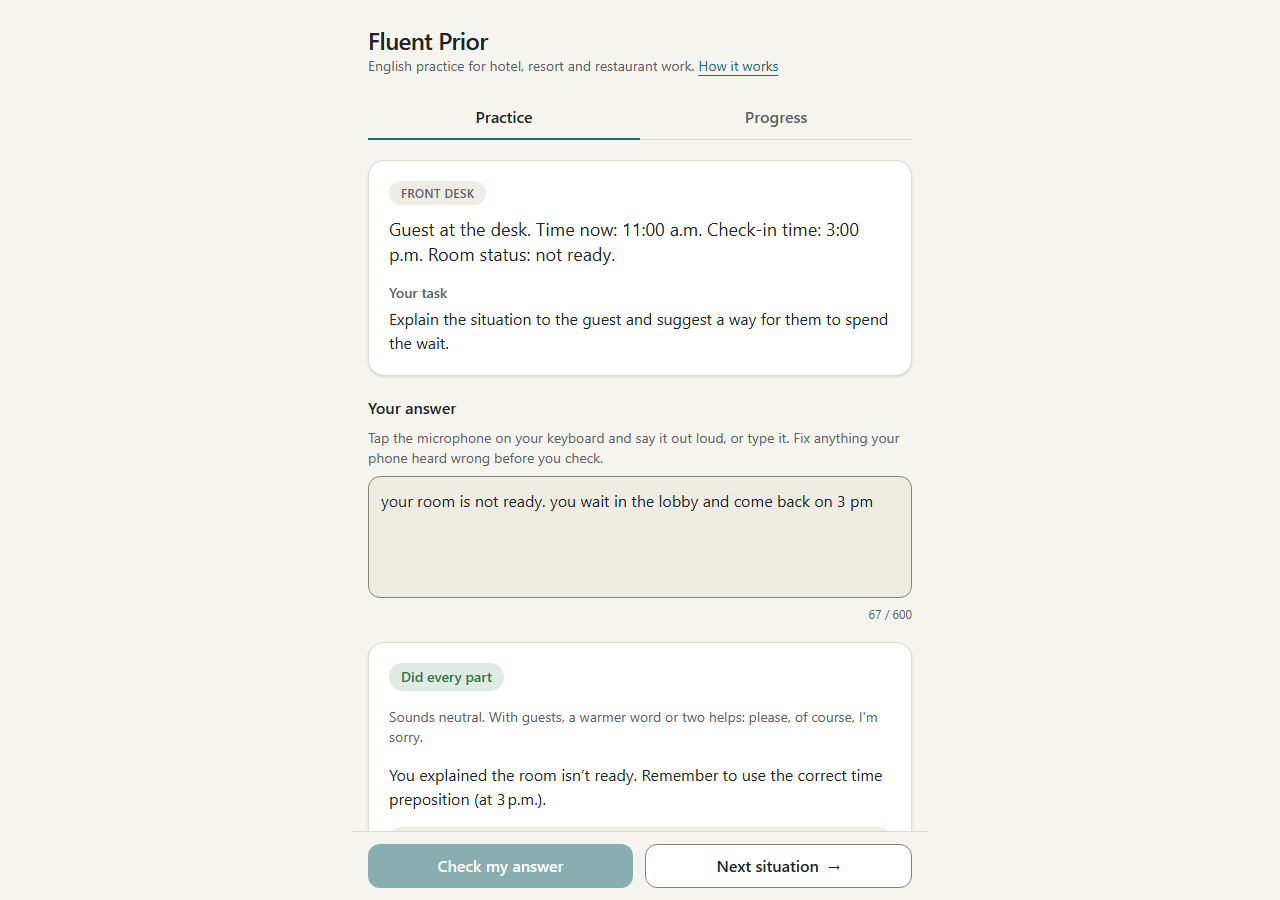
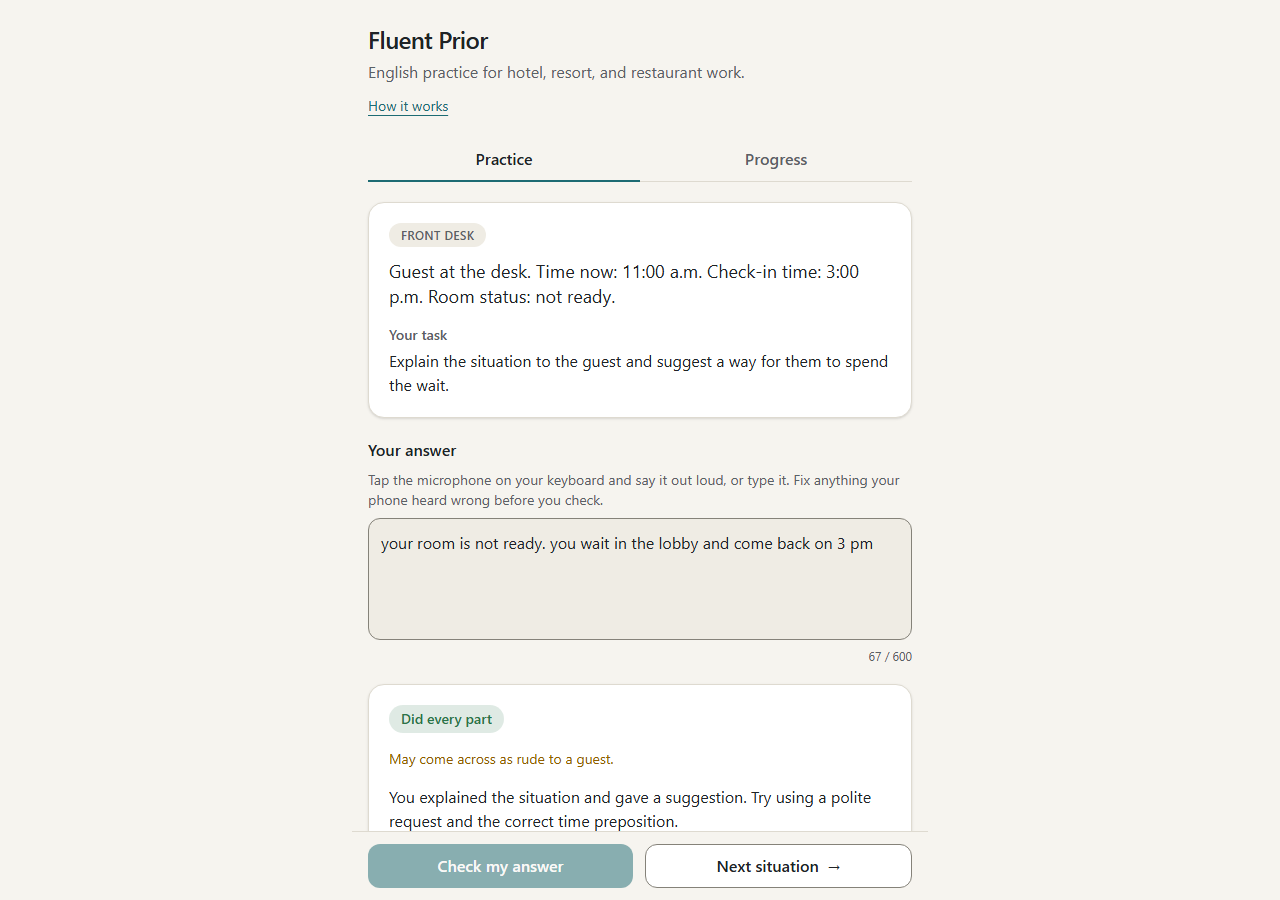
Header with its link on its own row, plainer progress copy, no button in a paragraph
What:
- The page header is a PageHeader (a local copy of @kyzarky/ui 0.5.0's,
  until it's published): the title, the description at body size, and
  "How it works" on a row of its own.
- The description gets its Oxford comma: "hotel, resort, and restaurant".
- "The chance you've got each one" becomes "How sure the app is that you
  know each one", in plainer American English for learners.
- "See a sample learner's two weeks" moves out of the <p> it sat in, onto
  its own row. An e2e check fails if any button is inside a paragraph.
- README media recaptured from this branch with the real grader.

Why: Ky's review. The header read as one small line with a link stuck on
the end, and the button sat partway along the paragraph's last line.

Verify: npm run verify (72 tests); npm run e2e (7). The new check fails on
the old MasteryPanel.

Interview Qs:
Q: Why is "a button in a paragraph" a bug and not just a style issue?
A: A <p> is phrasing content: the button flows inline with the text, so
   its position depends on where the sentence happens to wrap.
Q: Why "how sure the app is" instead of "probability"?
A: The readers are intermediate English learners. Every word there is
   common, and it says the number is the app's estimate, not a score.
Q: Why a local copy of PageHeader?
A: So this change isn't waiting on a publish. The swap to the package is
   one import, like Modal and Link before 0.4.0.

diff --git a/src/web/components/MasteryPanel.tsx b/src/web/components/MasteryPanel.tsx
@@ -116,16 +116,21 @@ export function MasteryPanel({
       )}
       <p className="mt-3 text-muted-foreground text-sm">
         {showTrend
-          ? `How the chance ${sample ? "they've" : "you've"} got each one changed, from the day ${sample ? "they" : "you"} first practiced it (left) to today (right).`
-          : `The chance ${sample ? "they've" : "you've"} got each one, based on ${sample ? "their" : "your"} answers.`}
+          ? `How sure the app is that ${sample ? "they know" : "you know"} each one, from the day ${sample ? "they" : "you"} first practiced it (left) to today (right).`
+          : `How sure the app is that ${sample ? "they know" : "you know"} each one, based on ${sample ? "their" : "your"} answers.`}
       </p>
       {!sample && history.length < 2 && (
-        <p className="mt-1 text-muted-foreground text-sm">
-          {history.length === 1 && "Practice on another day to see your progress over time. "}
-          <Button variant="outline" onClick={onShowSample} className="mt-2">
+        <>
+          {history.length === 1 && (
+            <p className="mt-1 text-muted-foreground text-sm">
+              Practice on another day to see your progress over time.
+            </p>
+          )}
+          {/* Its own row: a button inside a paragraph sits partway along the text's line. */}
+          <Button variant="outline" onClick={onShowSample} className="mt-3">
             See a sample learner's two weeks
           </Button>
-        </p>
+        </>
       )}
 
       <List heading={<h3>Tasks</h3>}>

diff --git a/src/web/components/PageHeader.tsx b/src/web/components/PageHeader.tsx
@@ -1,0 +1,31 @@
+// The top of a page: its title, a one-sentence description, and the page's own links or
+// actions on a row of their own. The parts sit close together; the page leaves at least
+// twice that space between the header and what follows (the 1:2 rule).
+//
+// Here until @kyzarky/ui 0.5.0 ships it; the design system's copy is the same code.
+
+import type { ReactNode } from "react";
+
+interface PageHeaderProps {
+  /** The page's name. Rendered as its only h1. */
+  title: ReactNode;
+  /** What the page is for, in one sentence. Body size, so it reads before anything else. */
+  description?: ReactNode;
+  /** Links or buttons about the whole page, such as a `Link` to how it works. */
+  actions?: ReactNode;
+}
+
+export function PageHeader({ title, description, actions }: PageHeaderProps) {
+  return (
+    <header className="flex flex-col gap-1.5">
+      <h1 className="font-semibold text-2xl leading-tight tracking-tight">{title}</h1>
+      {description && <p className="max-w-prose text-muted-foreground">{description}</p>}
+      {/* At least 24px tall: the target size for a link on its own line (WCAG 2.5.8). */}
+      {actions && (
+        <div className="mt-1 flex min-h-6 flex-wrap items-center gap-x-4 gap-y-2 text-sm">
+          {actions}
+        </div>
+      )}
+    </header>
+  );
+}

diff --git a/src/web/App.tsx b/src/web/App.tsx
@@ -22,6 +22,7 @@ import { AnswerForm } from "./components/AnswerForm";
 import { FeedbackCard } from "./components/FeedbackCard";
 import { HowItWorks } from "./components/HowItWorks";
 import { MasteryPanel } from "./components/MasteryPanel";
+import { PageHeader } from "./components/PageHeader";
 import { ScenarioCard } from "./components/ScenarioCard";
 import { StatusMessage } from "./components/StatusMessage";
 import { Tabs } from "./components/Tabs";
@@ -154,13 +155,11 @@ export function App() {
     <div
       className={`mx-auto flex min-h-dvh max-w-xl flex-col gap-5 px-4 pt-6 ${view === "practice" ? "" : "pb-10"}`}
     >
-      <header>
-        <h1 className="font-semibold text-2xl tracking-tight">Fluent Prior</h1>
-        <p className="text-muted-foreground text-sm">
-          English practice for hotel, resort and restaurant work.{" "}
-          <Link href={HOW_IT_WORKS}>How it works</Link>
-        </p>
-      </header>
+      <PageHeader
+        title="Fluent Prior"
+        description="English practice for hotel, resort, and restaurant work."
+        actions={<Link href={HOW_IT_WORKS}>How it works</Link>}
+      />
 
       <main className="flex flex-col gap-5">
         <Tabs label="View" tabs={VIEWS} selected={view} onSelect={setView} />

diff --git a/e2e/practice.spec.ts b/e2e/practice.spec.ts
@@ -133,6 +133,8 @@ test("the tabs switch views and follow the arrow keys", async ({ page }) => {
   await page.keyboard.press("ArrowRight");
   await expect(page.getByRole("tab", { name: "Progress" })).toBeFocused();
   await expect(page.getByRole("heading", { name: "What you know" })).toBeVisible();
+  // A button inside a paragraph sits partway along the text's line (design-system rule).
+  await expect(page.locator("p button")).toHaveCount(0);
   await expect(page.getByLabel("Your answer")).toBeHidden();
   await expectNoAxeViolations(page);
 });
